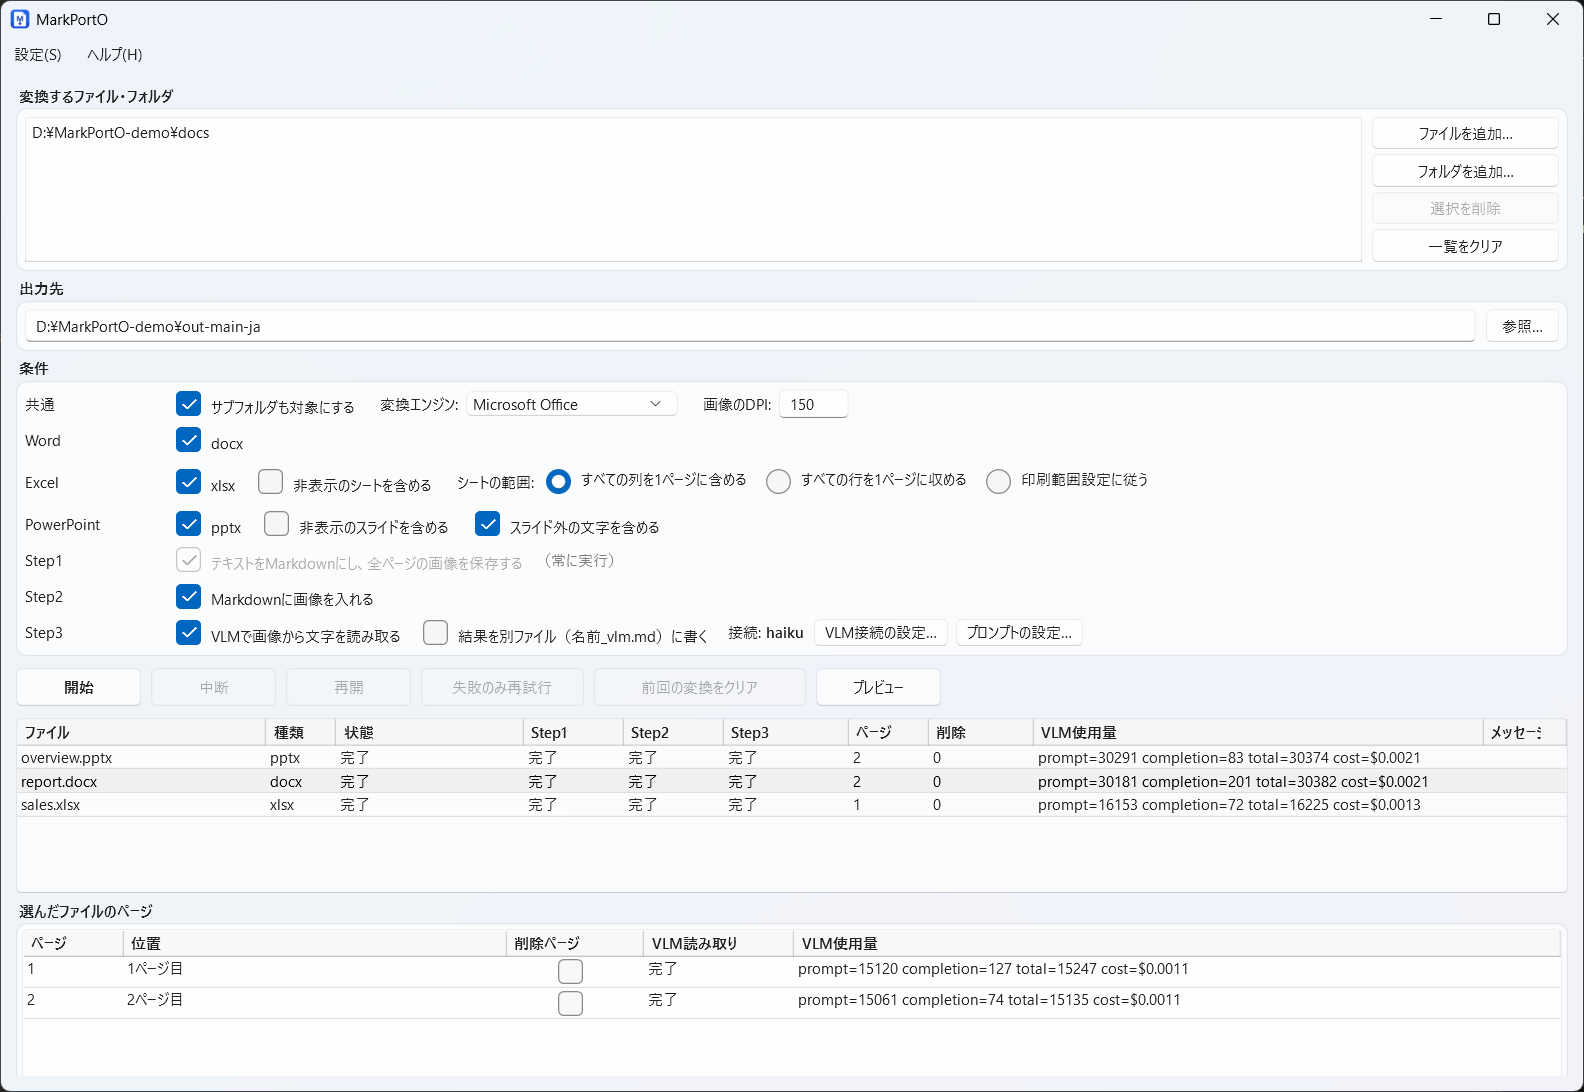
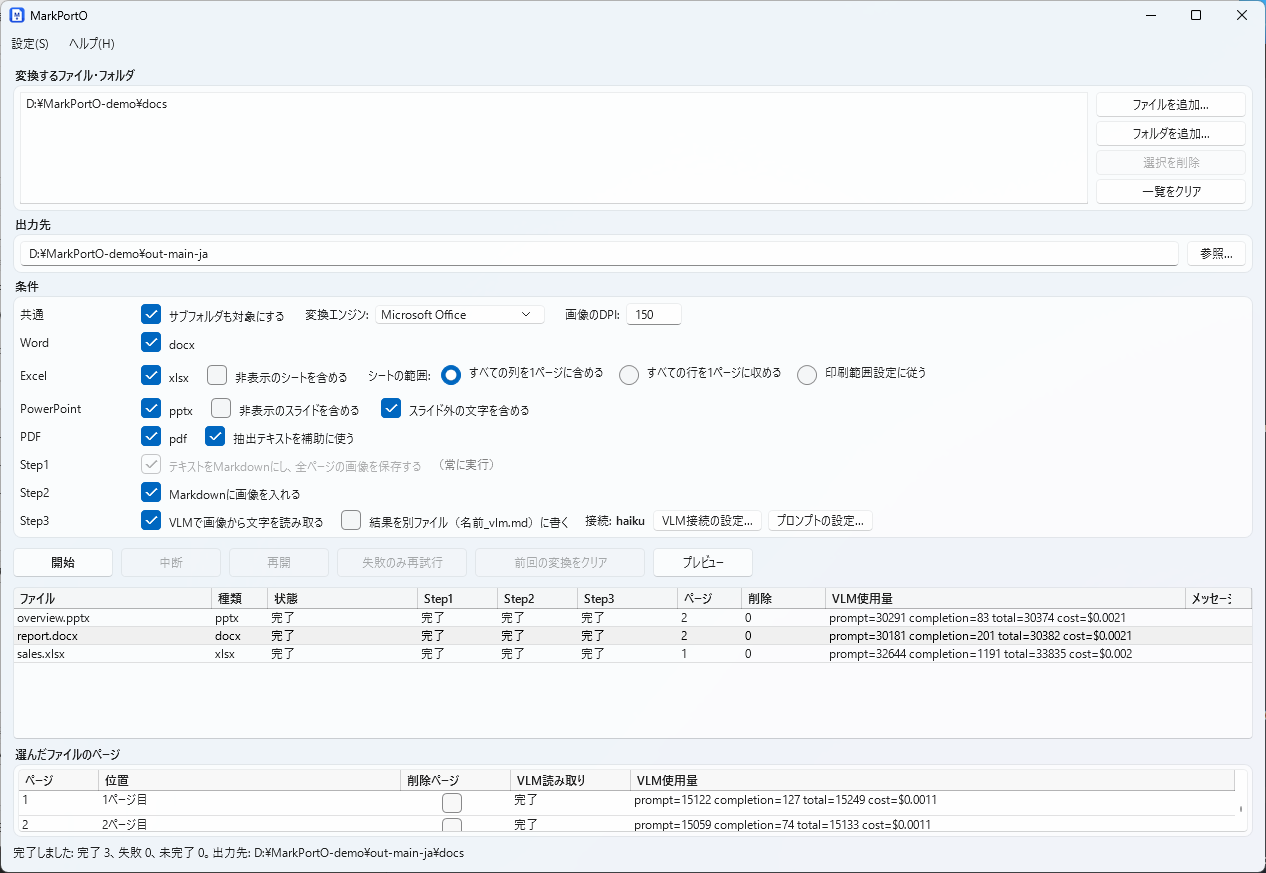
feat: the default prompt of Excel asks for table rows that start and end with a pipe; README: new screenshots of the main window (PDF row, splitter)

diff --git a/src/MarkPortO.Core/Settings/AppSettings.cs b/src/MarkPortO.Core/Settings/AppSettings.cs
@@ -428,7 +428,7 @@ public sealed class PromptSettings
         "この画像は Word 文書の1ページです。次の「抽出テキスト」は、同じページから文書ファイルを直接読んで取り出した文字列です。画像のレイアウトを見ながら、抽出テキストの文字を正確に使って、見出し・段落・表の構造を保ったMarkdownで書き起こしてください。抽出テキストにない文字（図や画像に含まれる文字）は、画像から読み取って補ってください。抽出テキストと画像が食い違うときは、画像を優先してください。図（フローチャート、構成図、シーケンス図など）は、構造が読み取れるなら Mermaid 記法（```mermaid のコードブロック）で書いて構いません。回答全体や表を ```markdown などのコードブロックで囲まないでください。説明や前置きは書かないでください。\n\n抽出テキスト:\n{pagetext}";
 
     public const string DefaultXlsx =
-        "この画像は Excel シートの一部です。次の「抽出テキスト」は、同じシートから文書ファイルを直接読んで取り出した内容です（画像に写っていない列や行も含みます）。画像のレイアウトを見ながら、抽出テキストの文字と数値を正確に使って、この画像に写っている範囲を、行と列の構造を保ったMarkdownの表で書き起こしてください。グラフや図形に含まれる文字は、画像から読み取ってください。抽出テキストと画像が食い違うときは、画像を優先してください。図（フローチャート、構成図、シーケンス図など）は、構造が読み取れるなら Mermaid 記法（```mermaid のコードブロック）で書いて構いません。回答全体や表を ```markdown などのコードブロックで囲まないでください。説明や前置きは書かないでください。\n\n抽出テキスト:\n{pagetext}";
+        "この画像は Excel シートの一部です。次の「抽出テキスト」は、同じシートから文書ファイルを直接読んで取り出した内容です（画像に写っていない列や行も含みます）。画像のレイアウトを見ながら、抽出テキストの文字と数値を正確に使って、この画像に写っている範囲を、行と列の構造を保ったMarkdownの表で書き起こしてください。グラフや図形に含まれる文字は、画像から読み取ってください。抽出テキストと画像が食い違うときは、画像を優先してください。図（フローチャート、構成図、シーケンス図など）は、構造が読み取れるなら Mermaid 記法（```mermaid のコードブロック）で書いて構いません。回答全体や表を ```markdown などのコードブロックで囲まないでください。説明や前置きは書かないでください。表の行は、すべて「|」で始めて「|」で終え、列の数を見出し行と同じにしてください（空のセルも省かず、「|」と「|」の間を空けて書き、列をずらさないでください）。\n\n抽出テキスト:\n{pagetext}";
 
     public const string DefaultPptx =
         "この画像は PowerPoint のスライド1枚です。次の「抽出テキスト」は、同じスライドから文書ファイルを直接読んで取り出した文字列です。画像のレイアウトを見ながら、抽出テキストの文字を正確に使って、タイトルと本文の構造を保ったMarkdownで書き起こしてください。抽出テキストにない文字（図や画像に含まれる文字）は、画像から読み取って補ってください。抽出テキストと画像が食い違うときは、画像を優先してください。図（フローチャート、構成図、シーケンス図など）は、構造が読み取れるなら Mermaid 記法（```mermaid のコードブロック）で書いて構いません。回答全体や表を ```markdown などのコードブロックで囲まないでください。説明や前置きは書かないでください。\n\n抽出テキスト:\n{pagetext}";
@@ -437,7 +437,7 @@ public sealed class PromptSettings
         "This image is one page of a Word document. The \"Extracted text\" below is the text that was read directly from the document file for the same page. Looking at the layout in the image, transcribe the page as Markdown that keeps the structure of headings, paragraphs and tables, using the characters of the extracted text exactly. Read the text that is not in the extracted text (text inside figures and pictures) from the image and add it. If the extracted text and the image disagree, trust the image. You may write a diagram (flowchart, architecture diagram, sequence diagram, etc.) in Mermaid syntax (a ```mermaid code block) when its structure can be read. Do not wrap the whole answer or a table in a code block such as ```markdown. Do not write explanations or a preamble.\n\nExtracted text:\n{pagetext}";
 
     public const string DefaultXlsxEn =
-        "This image is part of an Excel sheet. The \"Extracted text\" below is the content that was read directly from the document file for the same sheet (it also includes columns and rows that are not in the image). Looking at the layout in the image, transcribe only the range shown in this image as a Markdown table that keeps the structure of rows and columns, using the characters and numbers of the extracted text exactly. Read the text inside charts and shapes from the image. If the extracted text and the image disagree, trust the image. You may write a diagram (flowchart, architecture diagram, sequence diagram, etc.) in Mermaid syntax (a ```mermaid code block) when its structure can be read. Do not wrap the whole answer or a table in a code block such as ```markdown. Do not write explanations or a preamble.\n\nExtracted text:\n{pagetext}";
+        "This image is part of an Excel sheet. The \"Extracted text\" below is the content that was read directly from the document file for the same sheet (it also includes columns and rows that are not in the image). Looking at the layout in the image, transcribe only the range shown in this image as a Markdown table that keeps the structure of rows and columns, using the characters and numbers of the extracted text exactly. Read the text inside charts and shapes from the image. If the extracted text and the image disagree, trust the image. You may write a diagram (flowchart, architecture diagram, sequence diagram, etc.) in Mermaid syntax (a ```mermaid code block) when its structure can be read. Do not wrap the whole answer or a table in a code block such as ```markdown. Do not write explanations or a preamble. Write every row of a table with a leading and a trailing \"|\", with the same number of columns as the header row (write an empty cell between two \"|\" so that no column shifts).\n\nExtracted text:\n{pagetext}";
 
     public const string DefaultPptxEn =
         "This image is one slide of a PowerPoint presentation. The \"Extracted text\" below is the text that was read directly from the document file for the same slide. Looking at the layout in the image, transcribe the slide as Markdown that keeps the structure of the title and the body, using the characters of the extracted text exactly. Read the text that is not in the extracted text (text inside figures and pictures) from the image and add it. If the extracted text and the image disagree, trust the image. You may write a diagram (flowchart, architecture diagram, sequence diagram, etc.) in Mermaid syntax (a ```mermaid code block) when its structure can be read. Do not wrap the whole answer or a table in a code block such as ```markdown. Do not write explanations or a preamble.\n\nExtracted text:\n{pagetext}";
@@ -466,6 +466,8 @@ public sealed class PromptSettings
     // The default prompts of earlier versions: a saved prompt that is one of them was never edited, so it follows the language.
     private static readonly string[] SupersededDefaults =
     [
+        "この画像は Excel シートの一部です。次の「抽出テキスト」は、同じシートから文書ファイルを直接読んで取り出した内容です（画像に写っていない列や行も含みます）。画像のレイアウトを見ながら、抽出テキストの文字と数値を正確に使って、この画像に写っている範囲を、行と列の構造を保ったMarkdownの表で書き起こしてください。グラフや図形に含まれる文字は、画像から読み取ってください。抽出テキストと画像が食い違うときは、画像を優先してください。図（フローチャート、構成図、シーケンス図など）は、構造が読み取れるなら Mermaid 記法（```mermaid のコードブロック）で書いて構いません。回答全体や表を ```markdown などのコードブロックで囲まないでください。説明や前置きは書かないでください。\n\n抽出テキスト:\n{pagetext}",
+        "This image is part of an Excel sheet. The \"Extracted text\" below is the content that was read directly from the document file for the same sheet (it also includes columns and rows that are not in the image). Looking at the layout in the image, transcribe only the range shown in this image as a Markdown table that keeps the structure of rows and columns, using the characters and numbers of the extracted text exactly. Read the text inside charts and shapes from the image. If the extracted text and the image disagree, trust the image. You may write a diagram (flowchart, architecture diagram, sequence diagram, etc.) in Mermaid syntax (a ```mermaid code block) when its structure can be read. Do not wrap the whole answer or a table in a code block such as ```markdown. Do not write explanations or a preamble.\n\nExtracted text:\n{pagetext}",
         "この画像は Word 文書の1ページです。次の「抽出テキスト」は、同じページから文書ファイルを直接読んで取り出した文字列です。画像のレイアウトを見ながら、抽出テキストの文字を正確に使って、見出し・段落・表の構造を保ったMarkdownで書き起こしてください。抽出テキストにない文字（図や画像に含まれる文字）は、画像から読み取って補ってください。抽出テキストと画像が食い違うときは、画像を優先してください。図（フローチャート、構成図、シーケンス図など）は、構造が読み取れるなら Mermaid 記法（```mermaid のコードブロック）で書いて構いません。説明や前置きは書かないでください。\n\n抽出テキスト:\n{pagetext}",
         "この画像は Excel シートの一部です。次の「抽出テキスト」は、同じシートから文書ファイルを直接読んで取り出した内容です（画像に写っていない列や行も含みます）。画像のレイアウトを見ながら、抽出テキストの文字と数値を正確に使って、この画像に写っている範囲を、行と列の構造を保ったMarkdownの表で書き起こしてください。グラフや図形に含まれる文字は、画像から読み取ってください。抽出テキストと画像が食い違うときは、画像を優先してください。図（フローチャート、構成図、シーケンス図など）は、構造が読み取れるなら Mermaid 記法（```mermaid のコードブロック）で書いて構いません。説明や前置きは書かないでください。\n\n抽出テキスト:\n{pagetext}",
         "この画像は PowerPoint のスライド1枚です。次の「抽出テキスト」は、同じスライドから文書ファイルを直接読んで取り出した文字列です。画像のレイアウトを見ながら、抽出テキストの文字を正確に使って、タイトルと本文の構造を保ったMarkdownで書き起こしてください。抽出テキストにない文字（図や画像に含まれる文字）は、画像から読み取って補ってください。抽出テキストと画像が食い違うときは、画像を優先してください。図（フローチャート、構成図、シーケンス図など）は、構造が読み取れるなら Mermaid 記法（```mermaid のコードブロック）で書いて構いません。説明や前置きは書かないでください。\n\n抽出テキスト:\n{pagetext}",

diff --git a/tests/MarkPortO.Core.Tests/Settings/ExcelPromptTests.cs b/tests/MarkPortO.Core.Tests/Settings/ExcelPromptTests.cs
@@ -1,0 +1,45 @@
+// SPDX-License-Identifier: GPL-3.0-only
+// Copyright (C) 2026 umineko73
+//
+// This file is part of MarkPortO.
+//
+// MarkPortO is free software: you can redistribute it and/or modify it under the terms of
+// the GNU General Public License, version 3 only, as published by the Free Software Foundation.
+//
+// MarkPortO is distributed in the hope that it will be useful, but WITHOUT ANY WARRANTY;
+// without even the implied warranty of MERCHANTABILITY or FITNESS FOR A PARTICULAR PURPOSE.
+// See the GNU General Public License for more details.
+//
+// You should have received a copy of the GNU General Public License along with MarkPortO.
+// If not, see <https://www.gnu.org/licenses/gpl-3.0.html>.
+
+using MarkPortO.Core.Jobs.Models;
+using MarkPortO.Core.Settings;
+
+namespace MarkPortO.Core.Tests.Settings;
+
+/// <summary>The default prompt of Excel asks for a table whose rows all start and end with a pipe.</summary>
+public class ExcelPromptTests
+{
+    [Fact]
+    public void TheDefaultPromptOfExcel_AsksForRowsThatStartAndEndWithAPipe()
+    {
+        Assert.Contains("「|」で始めて「|」で終え", PromptSettings.DefaultFor(DocumentKind.Xlsx, "ja"));
+        Assert.Contains("leading and a trailing", PromptSettings.DefaultFor(DocumentKind.Xlsx, "en"));
+        Assert.DoesNotContain("leading and a trailing", PromptSettings.DefaultFor(DocumentKind.Docx, "en"));
+    }
+
+    [Fact]
+    public void ThePromptOfBeforeTheRule_IsStillTheBuiltInOne_AndAnEditedOneIsKept()
+    {
+        var ja = PromptSettings.DefaultFor(DocumentKind.Xlsx, "ja");
+        var start = ja.IndexOf("表の行は、すべて", StringComparison.Ordinal);
+        var end = ja.IndexOf("抽出テキスト:", StringComparison.Ordinal) - 2; // the two line breaks before it stay
+        var before = ja.Remove(start, end - start);
+
+        Assert.NotEqual(ja, before);
+        Assert.True(PromptSettings.IsDefault(DocumentKind.Xlsx, before));
+        Assert.False(PromptSettings.IsDefault(DocumentKind.Xlsx, before + "my own line"));
+        Assert.Equal(ja, new PromptSettings { Xlsx = before }.For(DocumentKind.Xlsx, "ja"));
+    }
+}

diff --git a/tests/MarkPortO.Core.Tests/Markdown/PreviewLineBreakTests.cs b/tests/MarkPortO.Core.Tests/Markdown/PreviewLineBreakTests.cs
@@ -60,6 +60,16 @@ public class PreviewLineBreakTests
     }
 
     [Fact]
+    public void ATableWithoutTheOuterPipes_IsStillATable()
+    {
+        // The VLM often writes a table like this; a break added to its lines would make it a paragraph (v0.1.4).
+        var html = MarkdownHtml.Render("no | name | url\n---|---|---\n1 | bed | https://example.com/a\n2 | | https://example.com/b");
+
+        Assert.Contains("<table>", html);
+        Assert.DoesNotContain("<br", html);
+    }
+
+    [Fact]
     public void TheBreakOfACellOfATable_IsStillShown()
     {
         Assert.Contains("x<br>y", MarkdownHtml.Render("| a |\n|---|\n| x<br>y |"));
